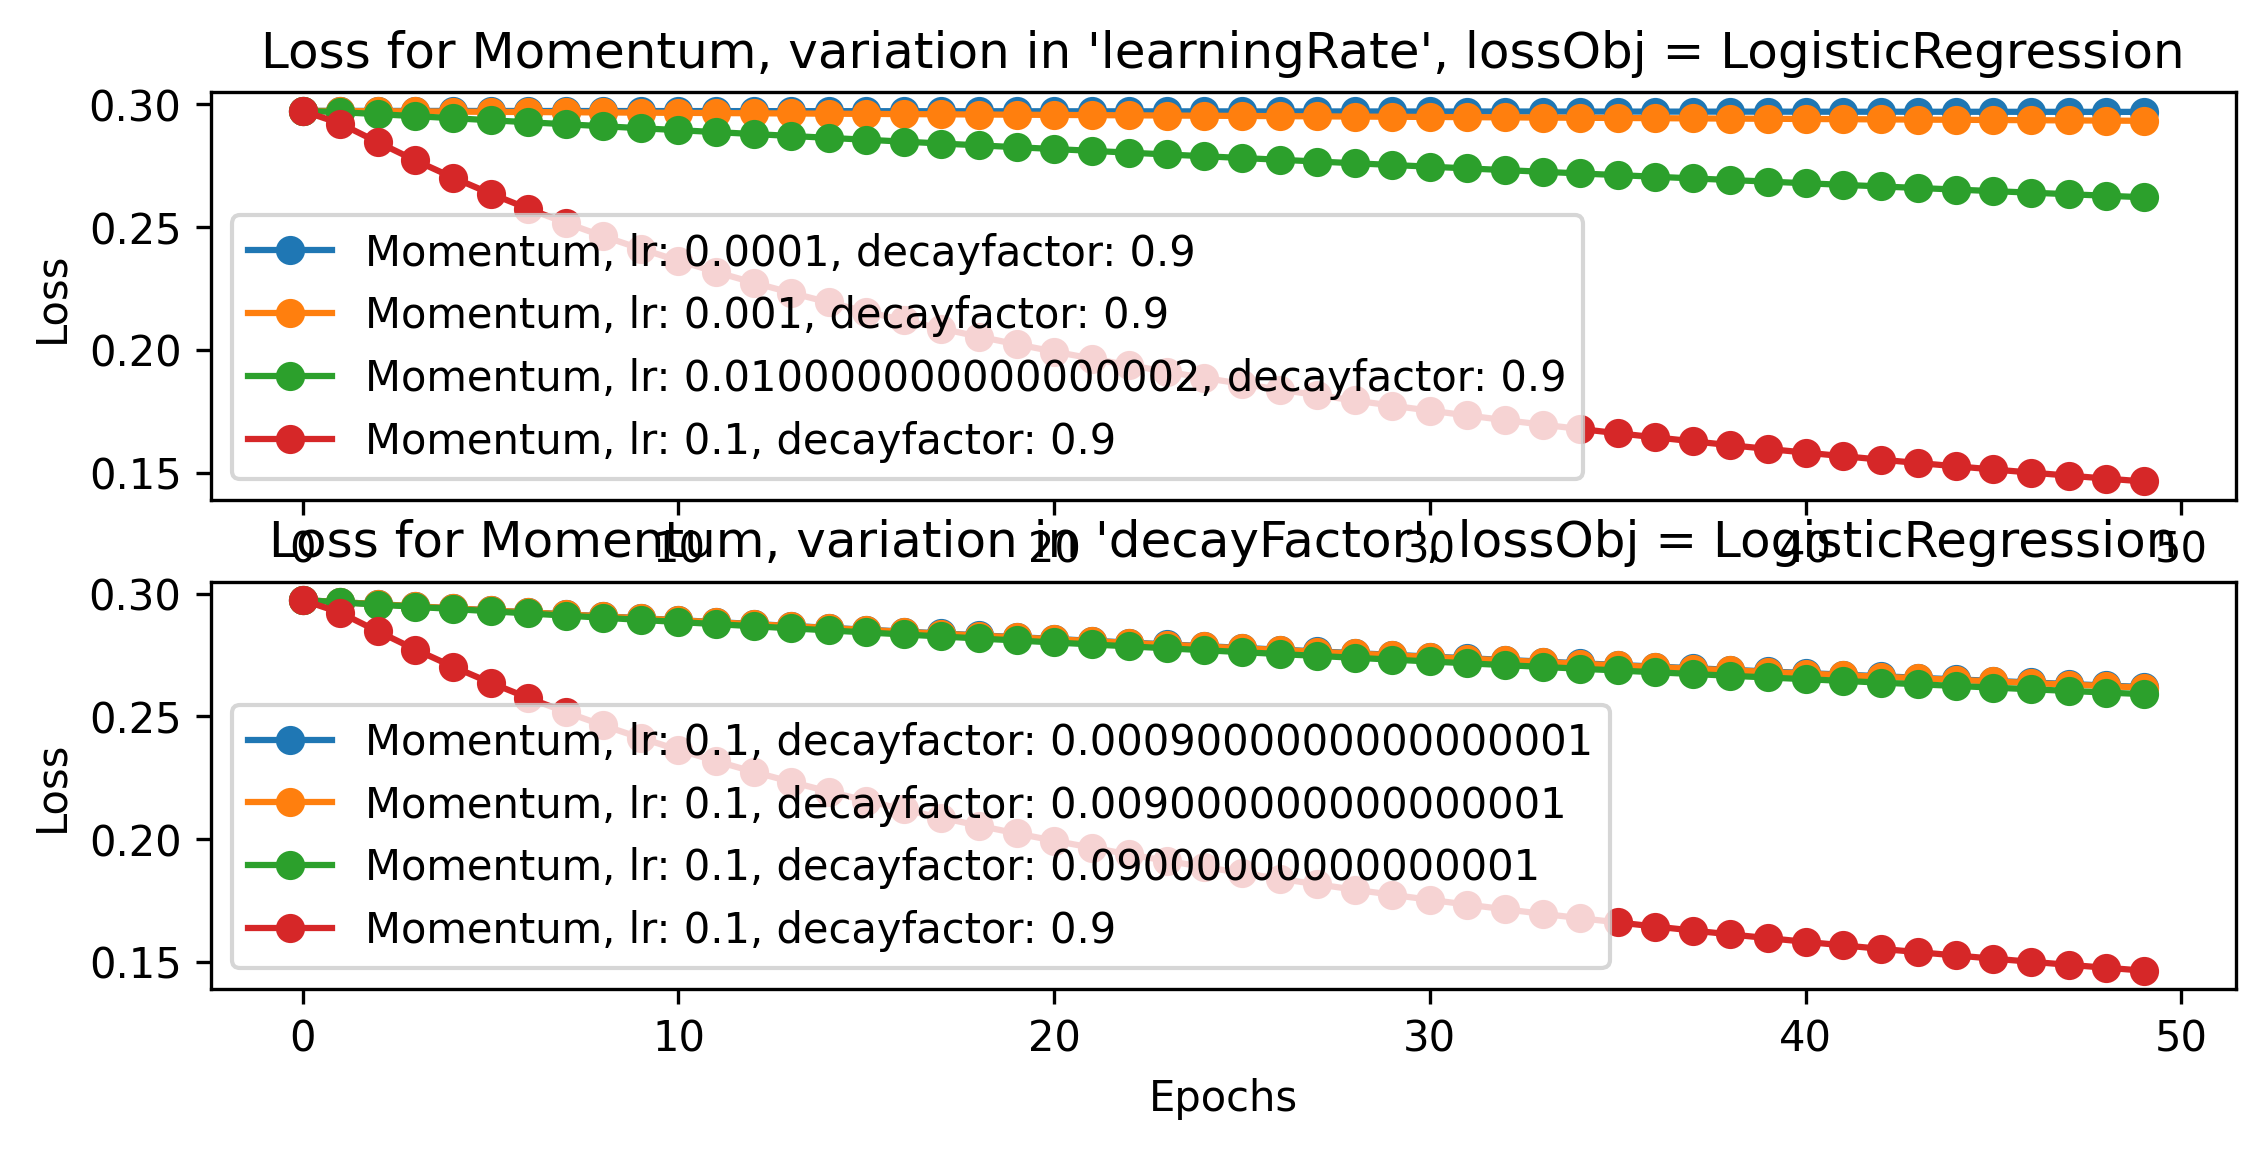
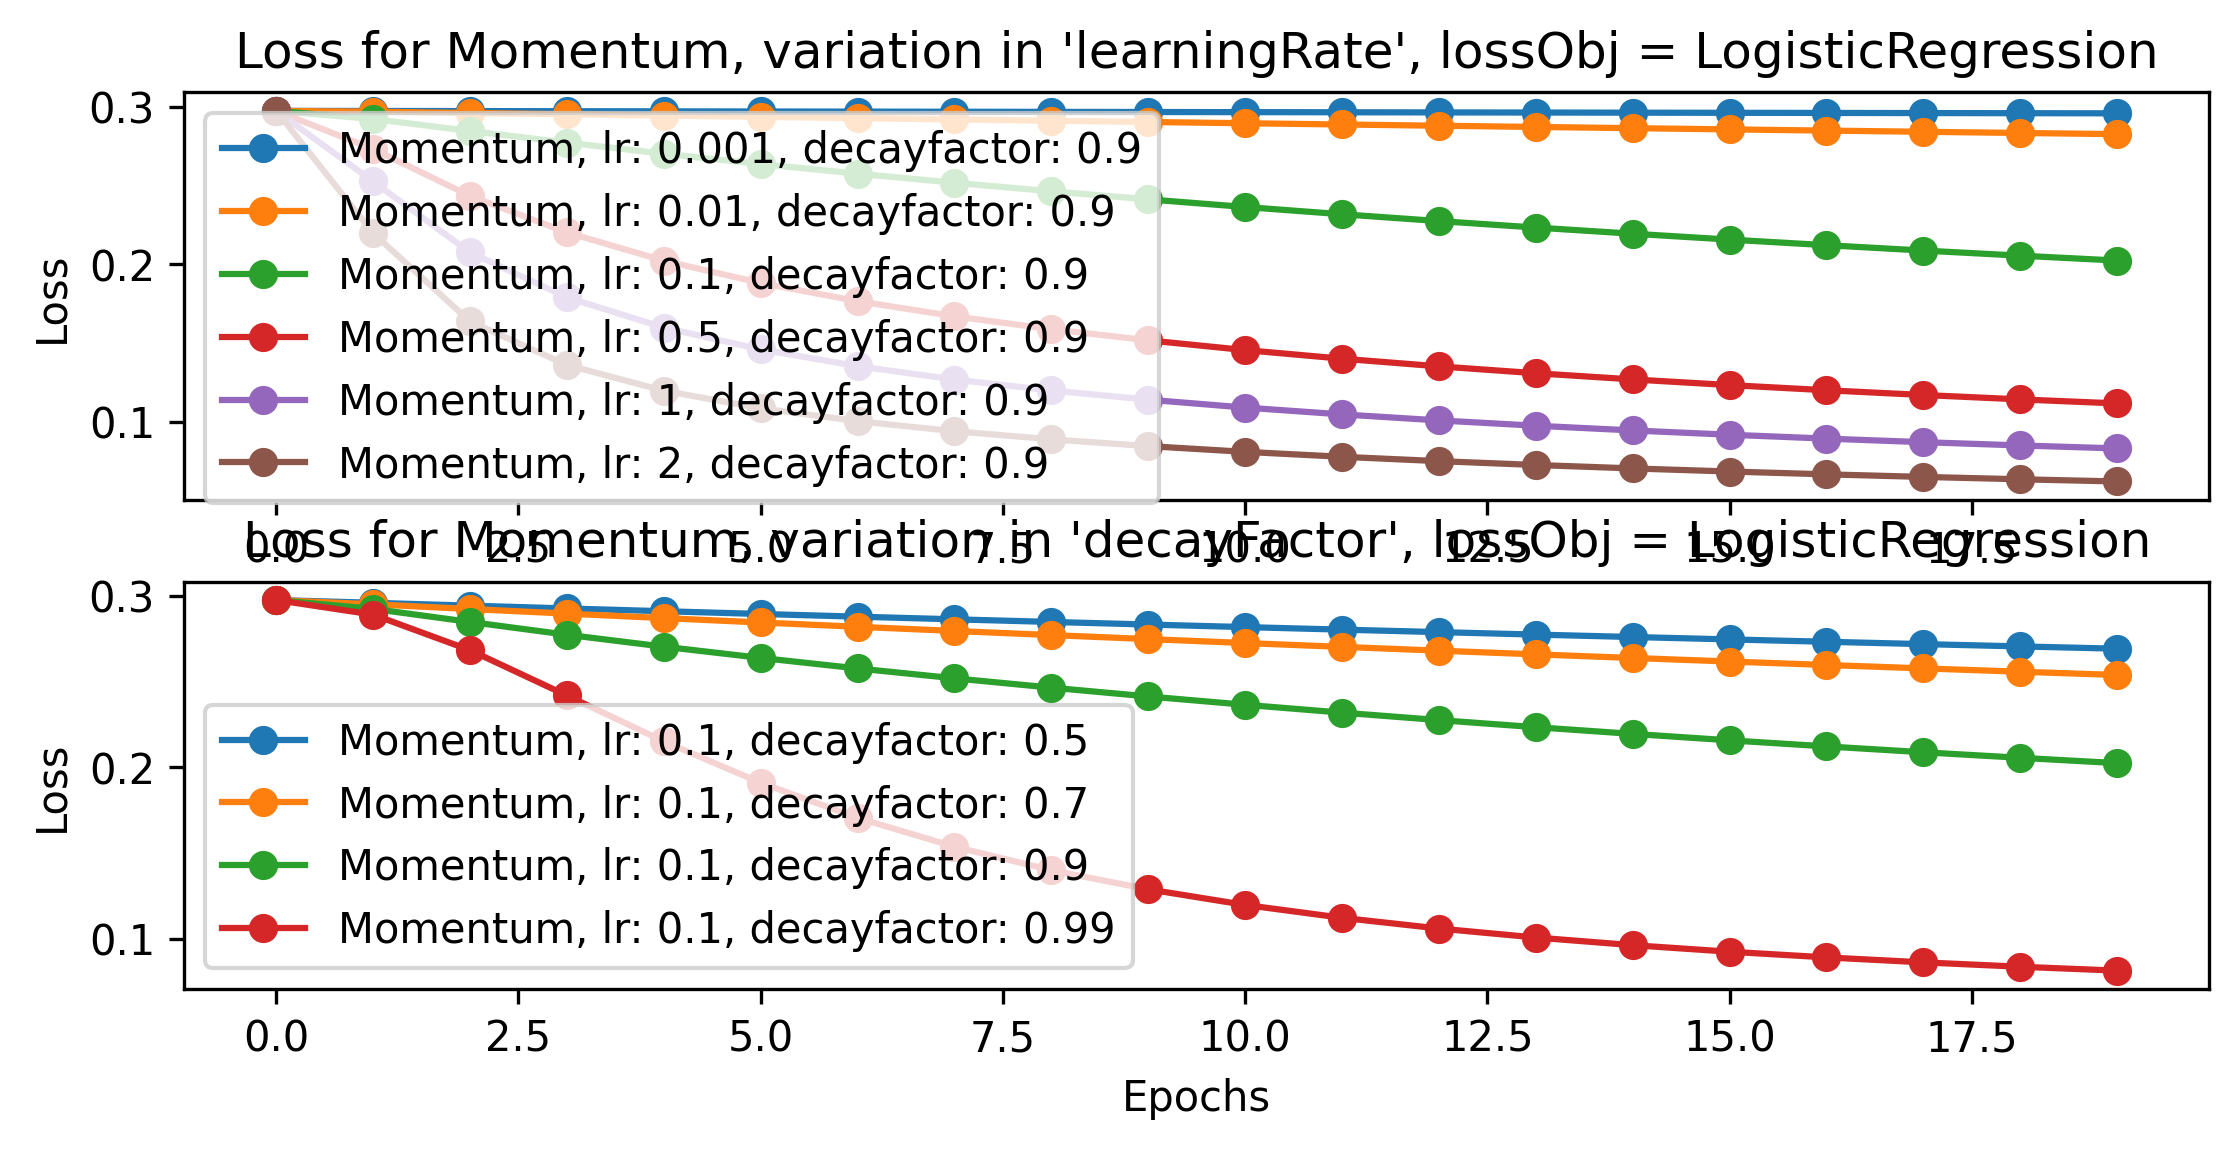
Added some print statements

diff --git a/testRobustness_new.py b/testRobustness_new.py
@@ -1,3 +1,5 @@
+from timeit import default_timer
+
 import numpy as np
 import matplotlib.pyplot as plt
 from copy import deepcopy
@@ -14,13 +16,13 @@ from Rosenbrock import Rosenbrock
 from utils import plotHistoryGraph, train, setupProblem
 from DataLoader import loadDataAsNumpyArray
 
-def testRobustness(groupedByBatches):
+def testRobustness(groupedByBatches, nrOfEpochs=20):
     """
     To test robustness w.r.t. batch sizes, we test the (tuned) optimizers for each batch size. 
     """
     for batchVariant in groupedByBatches:
         print("Testing for batch size: ", batchVariant[0].lossObj.batchSize)
-        train(batchVariant)
+        train(batchVariant, nrEpochs=nrOfEpochs)
 
 def setupOptimizerList(lossObjList, initPos):
     optSGDList = []
@@ -53,11 +55,12 @@ def setupOptimizerList(lossObjList, initPos):
 def main():
     # Setup lossObj
     # Load using loadDataAsNumpyArray, because the setupProblem returns lossObj
-    X, y = loadDataAsNumpyArray("datasets/rcv1_train.binary", toDense=False)  # rcv1_train.binary or australian_scale. X and y are sparse matrices, but will be converted to dense in the setupProblem function if 'toDense = True' is set.
+    datasetFilepath = "datasets/rcv1_train.binary" # rcv1_train.binary or australian_scale
+    X, y = loadDataAsNumpyArray(datasetFilepath, toDense=False)  # rcv1_train.binary or australian_scale. X and y are sparse matrices, but will be converted to dense in the setupProblem function if 'toDense = True' is set.
 
     # Batch size values to test, relative to number of samples
     nrOfSamples = X.shape[0]
-    batchSizeTestValues = [round(factor*nrOfSamples) for factor in [0.1, 0.25, 0.5, 1.0]]
+    batchSizeTestValues = [1, 128, 512, 1024] # [round(factor*nrOfSamples) for factor in [0.1, 0.25, 0.5, 1.0]]
     
     # Create lossObj
     lossObjList = []
@@ -73,8 +76,9 @@ def main():
 
     # Run the test
     print("Starting robustness test...")
-    testRobustness(groupedByBatches)
-    print("Robustness test completed.")
+    startTime = default_timer()
+    testRobustness(groupedByBatches, nrOfEpochs=1)
+    print(f"Robustness test completed in {default_timer() - startTime:.2f} seconds.")
 
     # Present
     i = 0
@@ -84,7 +88,7 @@ def main():
         plt.subplot(len(batchSizeTestValues)//2+1, 2, i+1)
         plt.subplots_adjust(left=None, bottom=None, right=None, top=None, wspace=None, hspace=0.9)
         for optimizer in optimizerList:
-            plotHistoryGraph(optimizer.lossHistory, title = f"Loss history", label=f"{optimizer.__class__.__name__}, {optimizer.getHyperparamStr()}, batchSize = {optimizer.lossObj.batchSize}", ylabel="Loss")
+            plotHistoryGraph(optimizer.lossHistory, title = f"Loss history, lossObj = {optimizer.lossObj.__class__.__name__}, dataset = {datasetFilepath}", label=f"{optimizer.__class__.__name__}, {optimizer.getHyperparamStr()}, batchSize = {optimizer.lossObj.batchSize}", ylabel="Loss")
         i += 1
     plt.show()
 

diff --git a/testSensitivity_NEW.py b/testSensitivity_NEW.py
@@ -76,16 +76,16 @@ def main():
     # Define an associated hyperparameter config dictionary if desired (missing values will be generated in the test)
     optimizerList = [
         (optSGD, {"lr": [0.001, 0.01, 0.1, 0.5, 1, 2]}),
-        (optNesterov, dict()),
-        (optMomentum, dict()),
-        (optAdam, {"learningRate": [0.01, 0.1, 0.78, 1]})
+        (optNesterov, {"lr": [0.001, 0.01, 0.1, 0.5, 1, 2], "decayFactor": [0.5, 0.7, 0.9, 0.99]}),
+        (optMomentum, {"learningRate": [0.001, 0.01, 0.1, 0.5, 1, 2], "decayFactor": [0.5, 0.7, 0.9, 0.99]}),
+        (optAdam, {"learningRate": [0.01, 0.1, 0.78, 1], "forgettingFactorM": [0.5, 0.7, 0.9, 0.99], "forgettingFactorR": [0.5, 0.7, 0.9, 0.99]})
         ]
     print("Optimizers created")
 
     # Run the test for each optimizer
     for opt, hConfig in optimizerList:
         print(f"\n --- Testing {opt.__class__.__name__} --- ")
-        results = test_hyperparameter_sensitivity(opt, hyperparamConfig=hConfig, nrEpochs = 50)
+        results = test_hyperparameter_sensitivity(opt, hyperparamConfig=hConfig, nrEpochs = 20)
 
         # Present
         # TODO: Print quantitative measurements

diff --git a/DataLoader.py b/DataLoader.py
@@ -7,7 +7,6 @@ from scipy.sparse import csr_matrix
 def loadDataAsNumpyArray(filepath, toDense = True):
     X, y = load_svmlight_file(filepath) # type: ignore - VS Code says it expects 3 values but running says 'expects 2 values'
     X = X.todense() if toDense else X
-    y = np.array(y) if toDense else y
     return X, y
 
 if __name__=="__main__":
@@ -38,7 +37,7 @@ if __name__=="__main__":
     # --- Benchmarking ---
     # Sparse Multiplication (CSR)
     start_sparse = timeit.default_timer()
-    result_sparse = X_subset_sparse.dot(weights)
+    result_sparse = X_subset_sparse @ weights #  X_subset_sparse.dot(weights) # X @ weight
     end_sparse = timeit.default_timer()
     time_sparse = end_sparse - start_sparse
 

diff --git a/testSensitivity.py b/testSensitivity.py
@@ -106,7 +106,7 @@ def main():
                 print(f"\t Loss history for {opt.getHyperparamDict()}: {hyperparamName}")
 
                 # Plot all loss history in one graph, alt. use: plt.subplot(2,2, i+1), add index i
-                plotHistoryGraph(lossHistory, f"{opt.__class__.__name__} Loss History \n {opt.getHyperparamDict}", ylabel="Loss")
+                plotHistoryGraph(lossHistory, f"{opt.__class__.__name__} Loss History \n {opt.getHyperparamDict}", label=f"{opt.__class__.__name__}, {opt.getHyperparamStr()}", ylabel="Loss")
             plt.show()
 
 def mainAlt():
